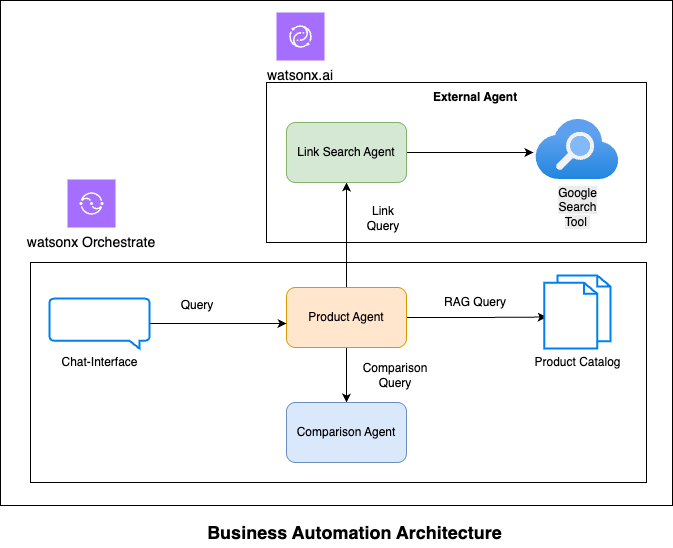
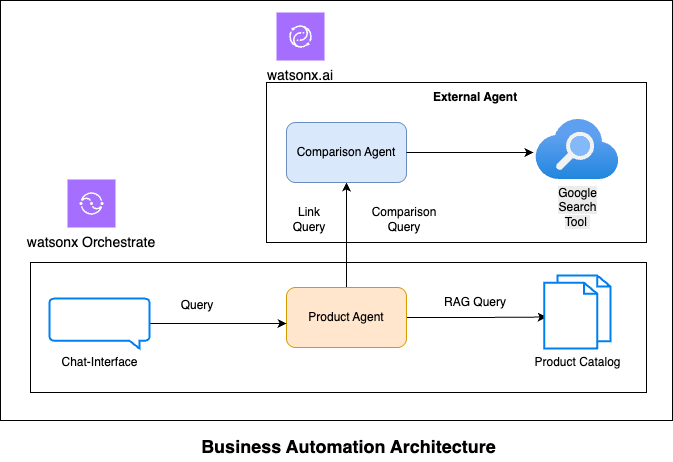
updated main read me of BA usecase

diff --git a/usecases/business-automation/README.md b/usecases/business-automation/README.md
@@ -41,17 +41,15 @@ To streamline the competitive analysis process, we have designed a Multi-Agent A
   * Generates a structured competitive comparison table
   * Strengths, Weaknesses, Opportunities, and Threats (SWOT) Analysis
 
-This system harnesses the combined power of two Orchestrate agents and one watsonx.ai agent, working seamlessly together to automate competitive research, strengthen sales pitches, and minimize manual effort.
+This system harnesses the combined power of  a watsonx Orchestrate agent and a watsonx.ai agent, working seamlessly together to automate competitive research, strengthen sales pitches, and minimize manual effort.
 
 <img width="900" alt="image" src="assets/Business_Automation_Architecture.png">
 
-This use case utilizes the capabilities of two Orchestrate agents to extract product-specific information (such as names and features) from the product catalog and to perform product comparisons. These agents are supported by a specialized agent developed in the watsonx.ai Agent Lab, and all are integrated within watsonx Orchestrate. Through the watsonx Orchestrate chat assistant, the agents collaborate and delegate tasks smoothly, delivering comprehensive insights and enabling informed decision-making.
+This use case utilizes the capabilities of a watsonx Orchestrate agent to extract product-specific information (such as names and features) from the product catalog and to perform product comparisons. These agents are supported by a specialized agent developed in the watsonx.ai Agent Lab, and all are integrated within watsonx Orchestrate. Through the watsonx Orchestrate chat assistant, the agents collaborate and delegate tasks smoothly, delivering comprehensive insights and enabling informed decision-making.
 
-  * **Product Agent** : This agent serves as the entry point for all queries and is designed to search for a specified product, retrieving its details and features in a structured format from the product catalog. It ensures clarity and organization by systematically presenting key product information, making it easy to understand and utilize. Additionally, it delegates tasks to the Link Search Agent and Comparison Agent for further processing.
+  * **Product Agent** : This agent serves as the entry point for all queries and is designed to search for a specified product, retrieving its details and features in a structured format from the product catalog. It ensures clarity and organization by systematically presenting key product information, making it easy to understand and utilize. Additionally, it delegates tasks to the Comparison Agent for further processing.
 
-  * **Link Search Agent** : This agent is expert in finding URLs or links for similar products that share matching features, ensuring users can explore alternatives efficiently.
-
-  * **Comparison Agent** : This agent is designed to compare competitor products using these links, extract key insights, and return a SWOT analysis of all products. The findings should be presented in a well-structured table format, making it easy to understand and compare the information briefly.
+  * **Comparison Agent** : This agent handles the end-to-end process of product comparison. It first identifies and collects URLs for similar products based on matching features. Then, using these links, it analyzes competitor offerings, extracts key insights, and generates a detailed SWOT analysis for each product. The findings are presented in a clear, structured table format to enable quick and effective comparison.
 
 > **!IMPORTANT**
 > This lab uses a simulator for a Human Capital Management system. However, this could be easily changed to any real system running in production such as Workday or others.

diff --git a/usecases/business-automation/hands-on-lab-buisness-automation.md b/usecases/business-automation/hands-on-lab-buisness-automation.md
@@ -34,7 +34,7 @@ The sales department of ABC Motor Corp, an automotive large player, when prepari
 
 >**Note:** Before starting the Agent creation, ensure you have generated your API key of watsonx.ai instance. 
 
-We will create one agent **Link Search Agent** in watsonx.ai's Agent Lab as part of this setup:  
+We will create one agent **Comparison Agent** in watsonx.ai's Agent Lab as part of this setup:  
 
 From the Home page of Agent Lab, click on the Build an AI agent to automate tasks
 
